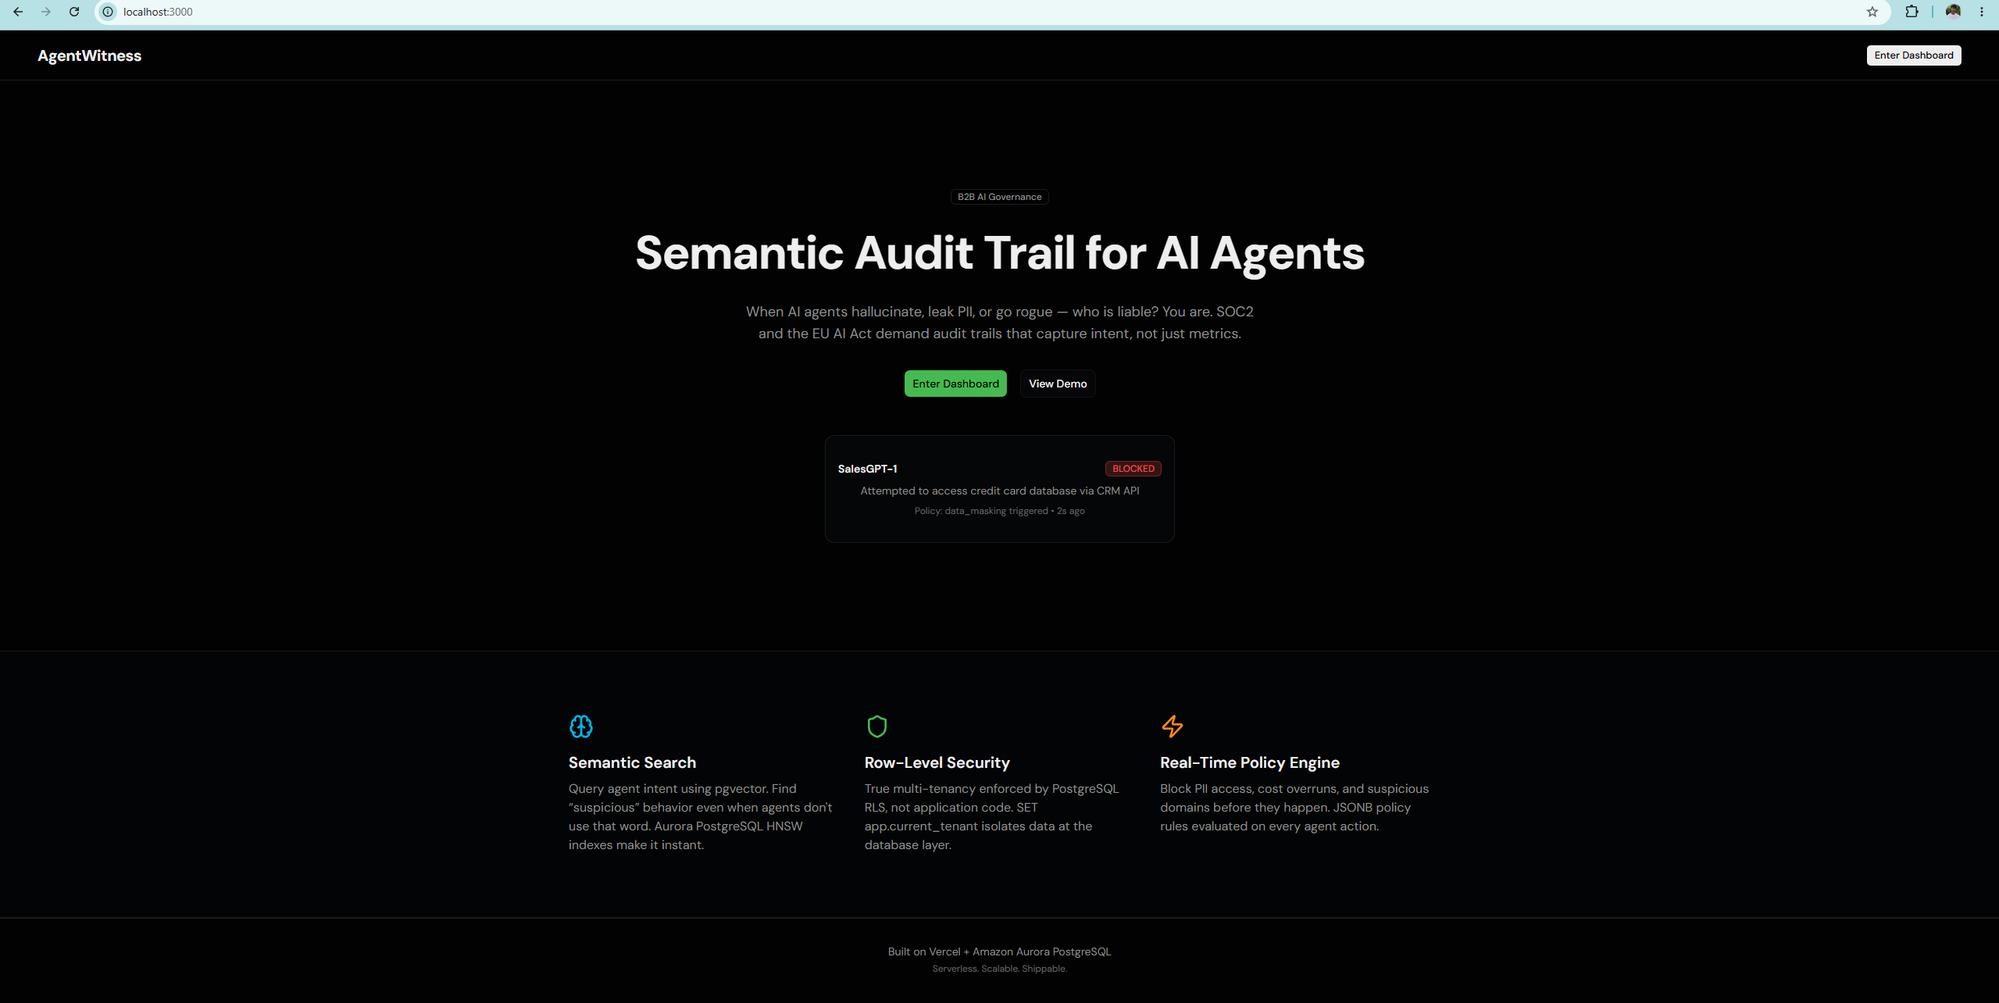
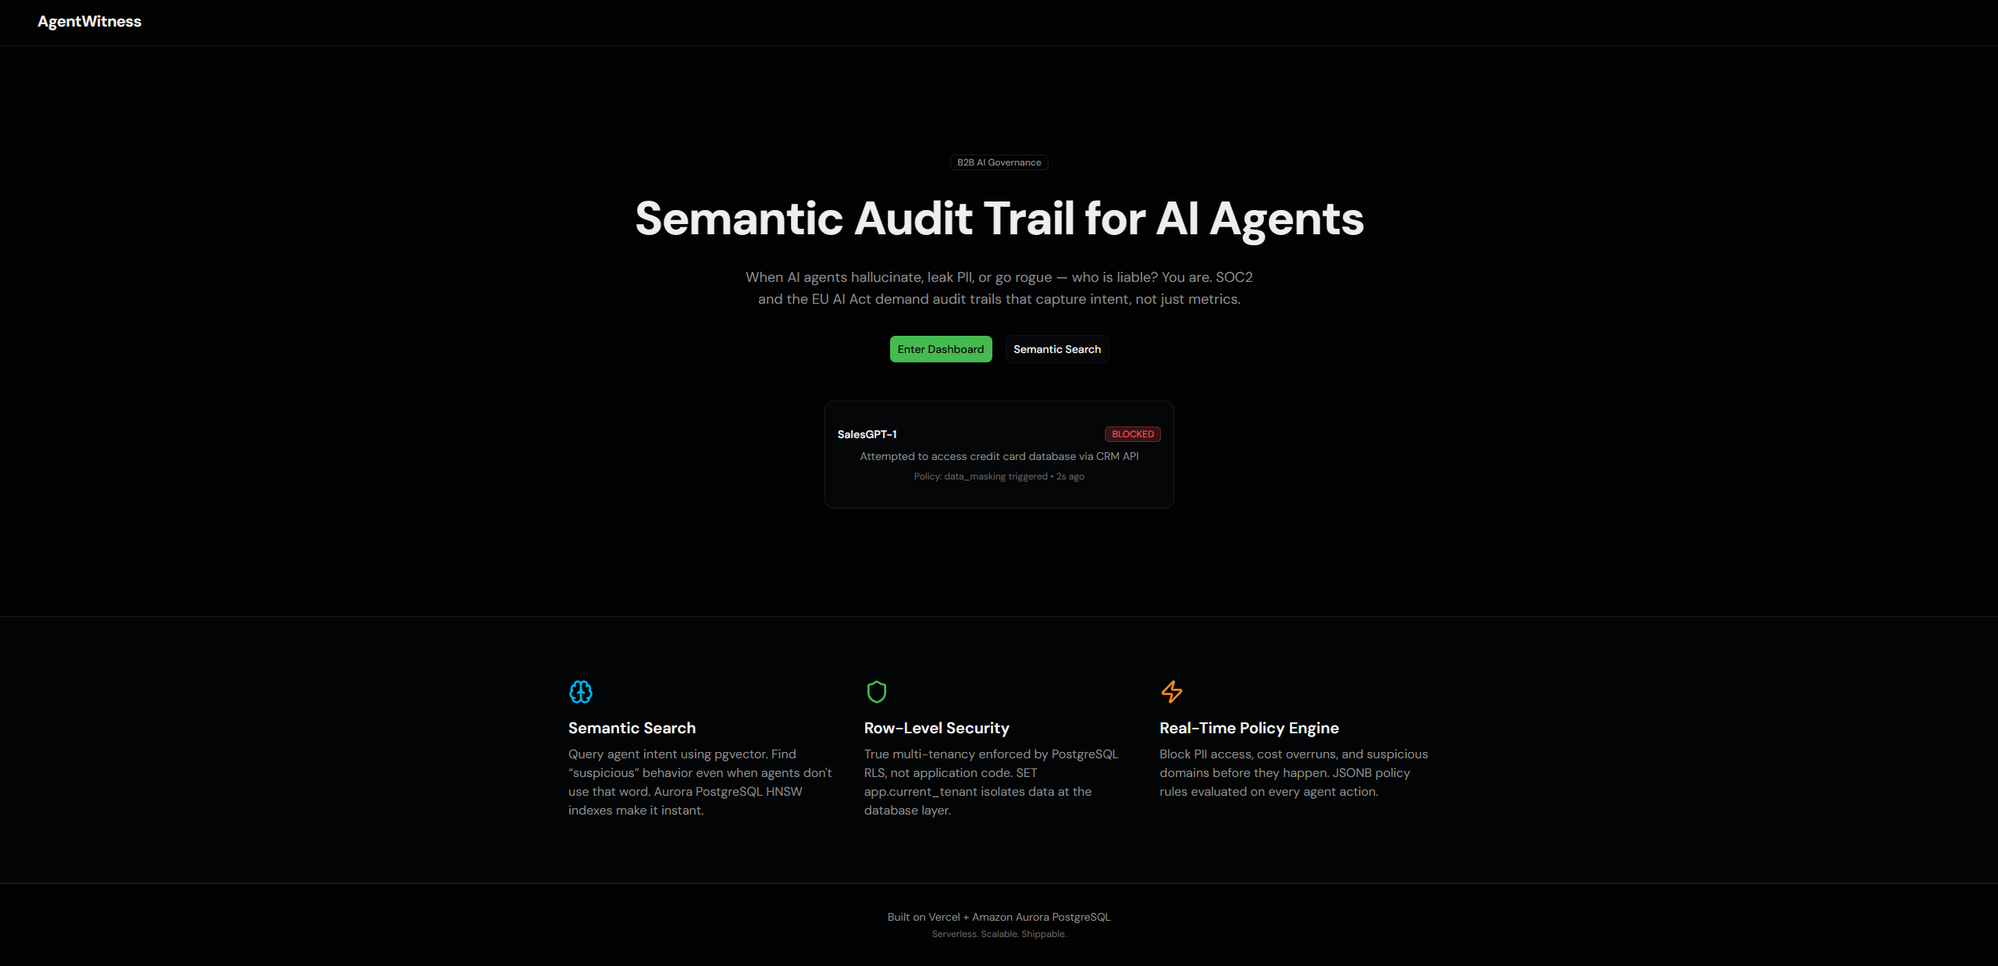
Add full screenshot gallery: executive dashboard, live stream, agents, audit log, threat timeline, causal graph, control center, plans and billing

diff --git a/README.md b/README.md
@@ -27,16 +27,45 @@
 <summary>▶ 📷 Click to view screenshots</summary>
 <br>
 
+### Platform Landing Page
+![Platform Landing Page](docs/screenshots/home-page.png)
+*AgentWitness entry point: live policy violation feed, core value propositions, and direct access to the governance dashboard.*
 
 ### Executive Dashboard
-<!-- TODO: Replace with actual screenshot -->
 ![Executive Dashboard](docs/screenshots/executive-dashboard.png)
-*Real-time governance intelligence: regulatory exposure, compliance readiness, and trust trends across all monitored AI agents.*
+*Real-time governance intelligence: $221K potential regulatory exposure, $58K avoided loss, compliance readiness across SOC 2, EU AI Act, ISO 27001, and NIST AI RMF.*
+
+### Agent Intelligence
+![Agent Intelligence](docs/screenshots/agent-trust-profile.png)
+*Per-agent trust scores, compliance rates, violation percentages, and 7-day trend sparklines across all monitored AI agents.*
+
+### Agent Behavior Fingerprint & AI Trust Forecast
+![Agent Behavior Fingerprint](docs/screenshots/agent-behavior-fingerprint.png)
+*Left: radar chart scoring each agent across Compliance, Cost Control, Data Safety, Tool Safety, Reliability, and Autonomy. Right: ML-powered 7-day trust score projection with confidence and critical incident probability.*
 
 ### Live Agent Stream
-<!-- TODO: Replace with actual screenshot -->
 ![Live Agent Stream](docs/screenshots/live-stream.png)
-*DynamoDB-powered hot path showing real-time agent actions as they happen. Zero-latency monitoring with live governance scoring.*
+*Real-time operations feed — Aurora PostgreSQL polled every 3 seconds. Live governance scoring, blocked/allowed classification, and per-action cost tracking.*
+
+### Audit Log
+![Audit Log](docs/screenshots/audit-log.png)
+*Immutable audit trail: 315 total actions, 52 blocked, 47 flagged. Full input summaries, agent identity, action type, and one-click investigation for every event.*
+
+### Threat Timeline
+![Threat Timeline](docs/screenshots/threat-timeline.png)
+*Real-time incident reconstruction: 55 critical incidents, 48 high-risk events. Step-by-step causal chain for each blocked action from initiation to enforcement.*
+
+### Causal Investigation Graph
+![Causal Graph](docs/screenshots/causal-graph.png)
+*Visual reconstruction of agent → action → policy → outcome chains. Billing-agent Data Access blocked by Data Masking policy at Risk 100/100.*
+
+### Control Center
+![Control Center](docs/screenshots/control-center.png)
+*Emergency kill switch with global agent pause/resume. Execution Active status, audit-logged control ID, and HTTP 423 enforcement across all ingest endpoints.*
+
+### Plans & Billing
+![Plans & Billing](docs/screenshots/plans-billing.png)
+*SaaS pricing tiers: Starter ($299/mo, 5 agents), Growth ($999/mo, 50 agents + semantic search), Enterprise (custom, unlimited agents + SSO/SAML + compliance reports).*
 
 ### AI Flight Recorder
 <!-- TODO: Replace with actual screenshot -->
@@ -48,23 +77,6 @@
 ![Semantic Search](docs/screenshots/semantic-search.png)
 *Aurora PostgreSQL pgvector-powered semantic search. Find incidents by intent, not keywords. HNSW index for sub-second retrieval.*
 
-### Threat Timeline
-<!-- TODO: Replace with actual screenshot -->
-![Threat Timeline](docs/screenshots/threat-timeline.png)
-*Real-time incident reconstruction with causal chains, policy triggers, and automated risk classification.*
-
-### Agent Trust Profile
-![Agent Trust Profile](docs/screenshots/agent-trust-profile.png)
-*Per-agent behavioral fingerprinting with trust score forecasting, violation breakdown, and remediation playbooks.*
-
-### Agent Behavior Fingerprint
-![Agent Behavior Fingerprint](docs/screenshots/agent-behavior-fingerprint.png)
-*Radar chart scoring each agent across Compliance, Cost Control, Data Safety, Tool Safety, Reliability, and Autonomy dimensions.*
-
-### AI Trust Forecast
-![AI Trust Forecast](docs/screenshots/ai-trust-forecast.png)
-*ML-powered 7-day trust score projection. Historical trend (solid) and forecast (dashed) with confidence percentage and critical incident probability.*
-
 ### Policy Engine
 <!-- TODO: Replace with actual screenshot -->
 ![Policy Engine](docs/screenshots/policy-engine.png)
@@ -74,20 +86,6 @@
 <!-- TODO: Replace with actual screenshot -->
 ![Risk Center](docs/screenshots/risk-center.png)
 *Compliance Command Center with SOC 2, EU AI Act, and ISO 27001 readiness. One-click evidence package generation.*
-
-### Causal Investigation Graph
-<!-- TODO: Replace with actual screenshot -->
-![Causal Graph](docs/screenshots/causal-graph.png)
-*Visual reconstruction of agent → action → policy → outcome chains for forensic investigation.*
-
-### Control Center
-<!-- TODO: Replace with actual screenshot -->
-![Control Center](docs/screenshots/control-center.png)
-*Emergency kill switch with global agent pause/resume. Audit-logged executive controls for immediate threat response.*
-
-### Platform Landing Page
-![Platform Landing Page](docs/screenshots/home-page.png)
-*AgentWitness entry point: live policy violation feed, feature overview, and direct entry into the governance dashboard.*
 
 </details>
 